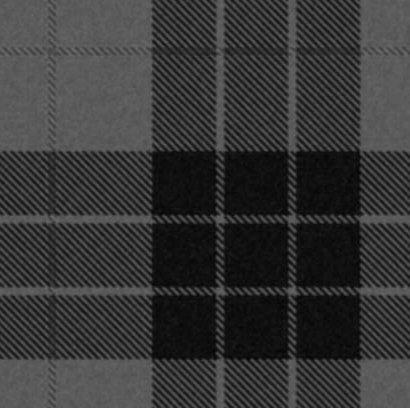
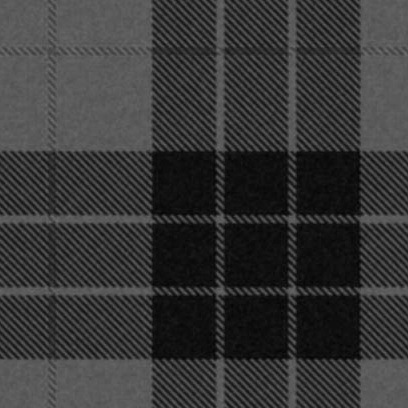
cement bkgnd

diff --git a/index.css b/index.css
@@ -11,7 +11,7 @@ ul li{
     margin-bottom: 5px;
 }
 
-#blanket{background-color: #9a5454;border-radius: 3px;max-width: 100%;width: 800px;margin: auto;font-family: "Lato", "Microsoft YaHei",sans-serif;/* text-align: center; */}
+#blanket{background-color: rgba(216, 85, 85, 0.49);background-image: url('pattern_small.jpg');background-blend-mode: color-burn;border-radius: 3px;max-width: 100%;width: 800px;margin: auto;font-family: "Lato", "Microsoft YaHei",sans-serif;/* text-align: center; */}
 #avatarimg{
     border-color: rgba(255, 248, 229, 0.61);
     border-style: solid;
@@ -102,7 +102,7 @@ ul li{
 }
 
 .shadow-base {
-  box-shadow: 3px 3px 10px rgba(0, 0, 0, 0.16);
+  box-shadow: 3px 3px 12px rgba(0, 0, 0, 0.33);
   border-width: 1px;
   border-color: rgba(0, 0, 0, 0.21);
   border-radius: 3px;
@@ -155,9 +155,9 @@ ul li{
     border-radius: 5px;
 }
 body {
-  background-color: rgba(220, 145, 107, 0.1);
-  background-image: url(pattern.jpg);
-  background-blend-mode: color-burn;
+  background-color: rgba(0, 0, 0, 0.44);
+  background-image: url(cement.jpg);
+  background-blend-mode: multiply;
 }
 4;
 }
